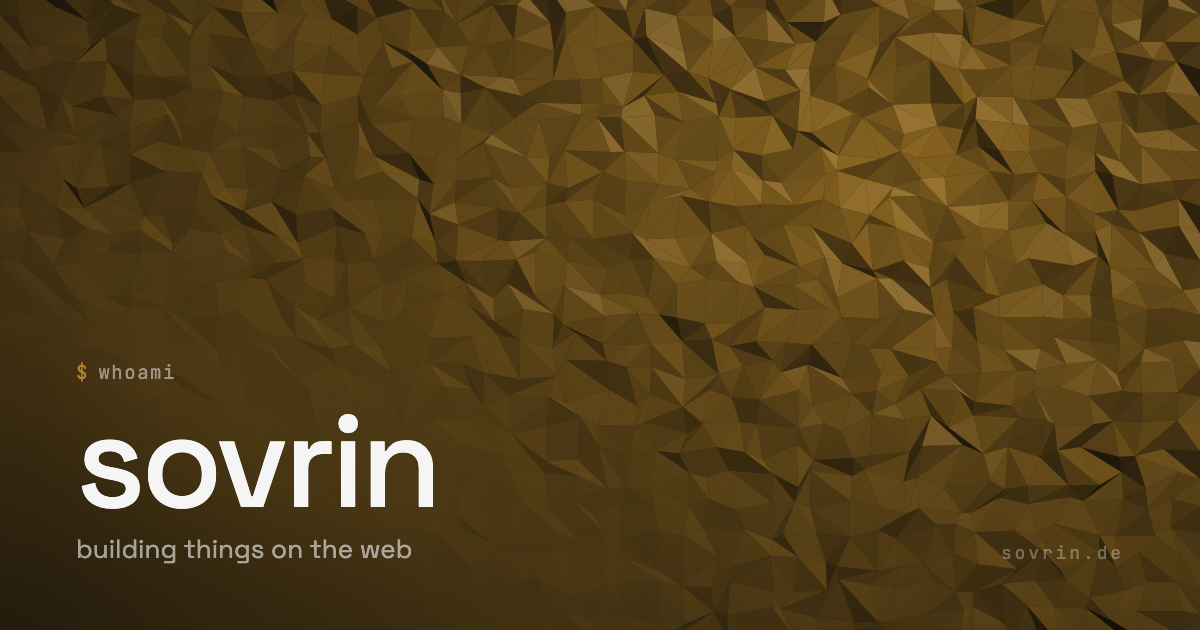
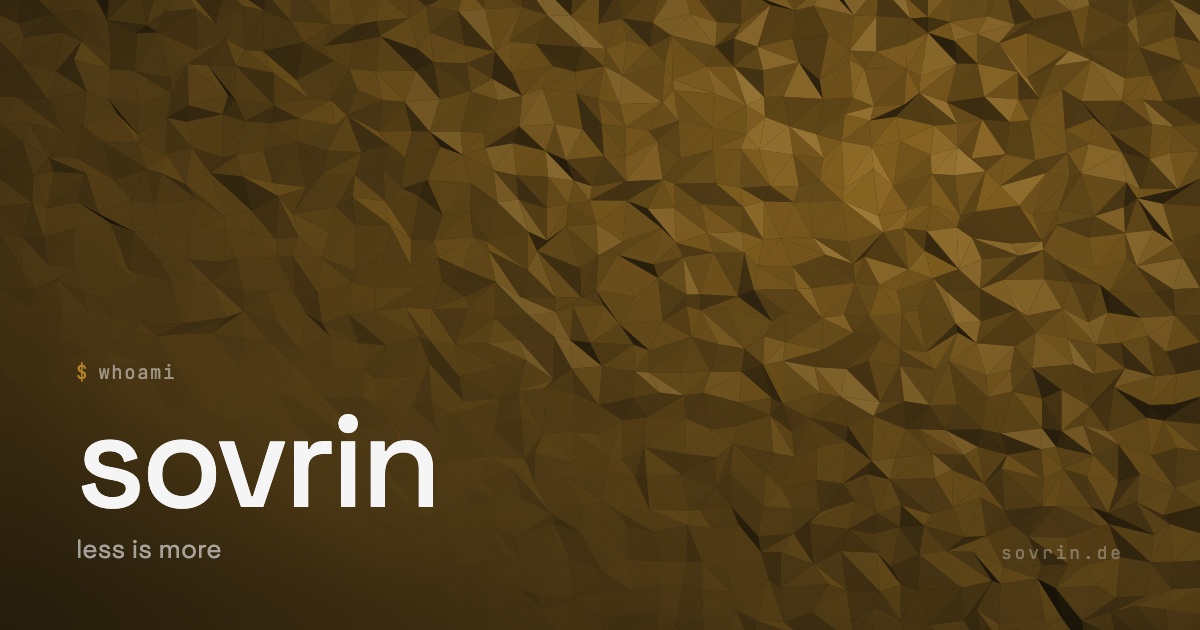
fix: open graph generation

diff --git a/app/app.config.ts b/app/app.config.ts
@@ -1,11 +1,11 @@
 export default defineAppConfig({
     portfolio: {
-        phrase: 'building the web, one detail at a time',
+        phrase: 'less is more',
         user: 'sovrin',
-        role: 'web developer',
+        role: 'developer',
         url: 'https://sovrin.de',
         github: 'https://github.com/sovrin',
         linkedin: 'https://www.linkedin.com/in/oleg-kamlowski-2166a224b/',
-        email: 'me@gsovrin.de',
+        email: 'contact@sovrin.de',
     },
 })
